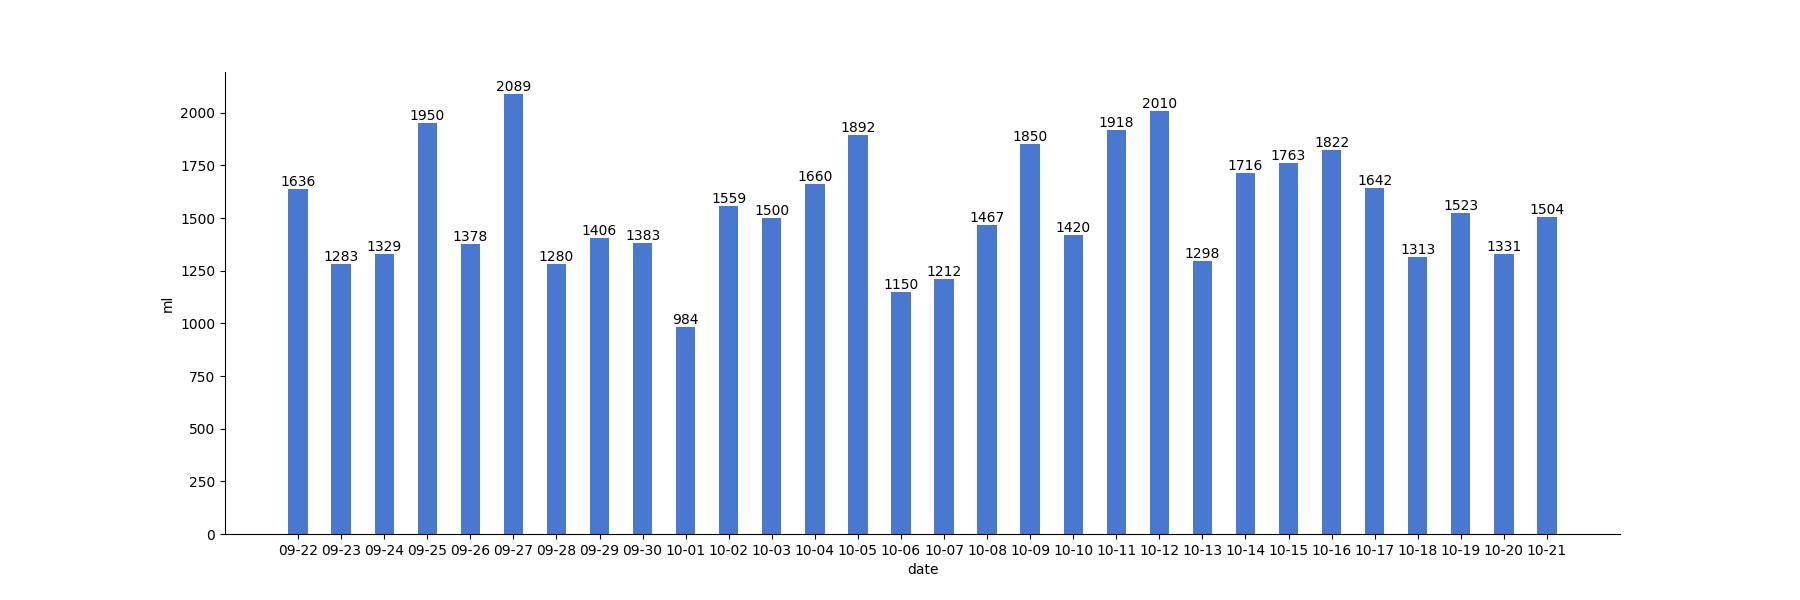
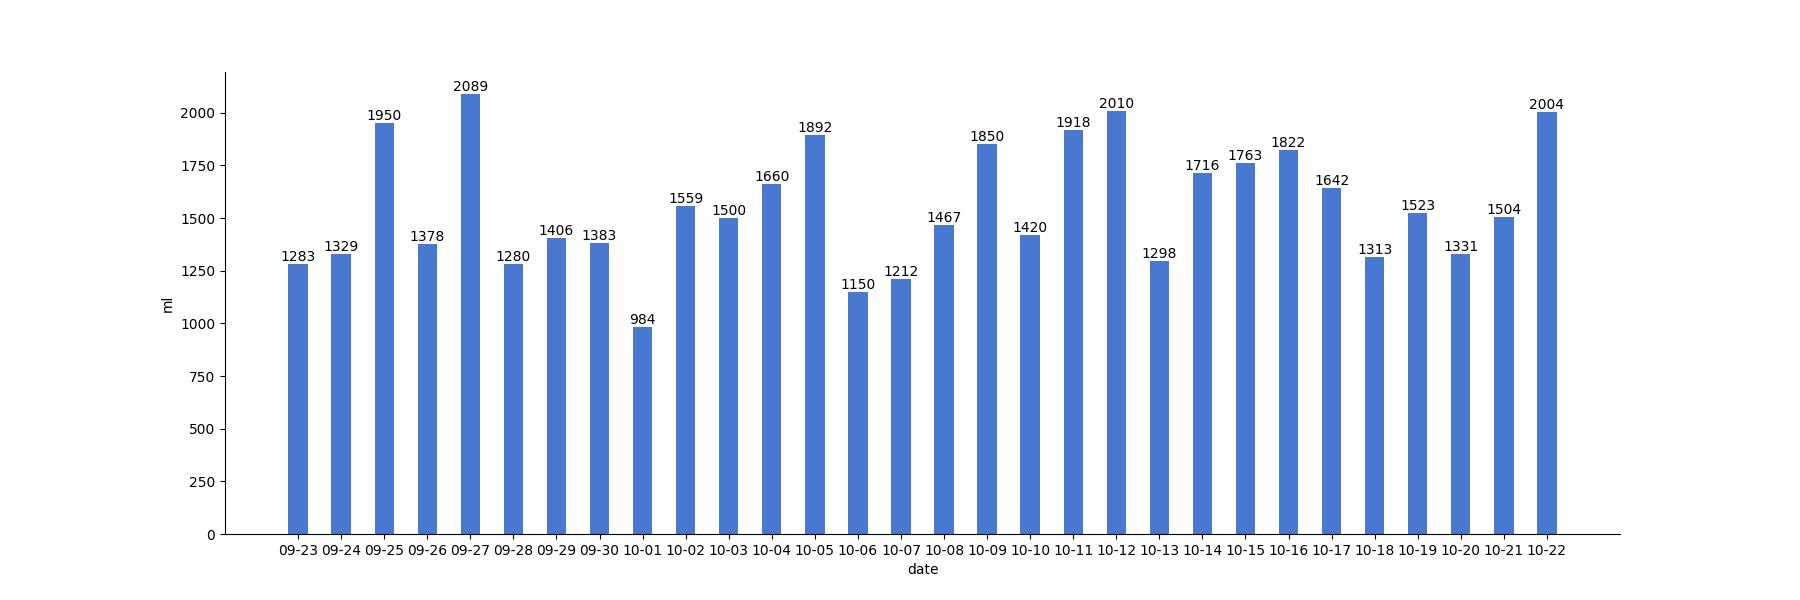
generated readme

diff --git a/README.md b/README.md
@@ -5,12 +5,12 @@
 
 | 今日总饮水量 | 每小时平均饮水量 |
 | :----: | :----: |
-| 2004 | 200 |
+| 175 | 175 |
 </div>
 
-| 日期 | 00:04:58 | 00:24:37 | 07:56:28 | 08:08:13 | 09:26:34 | 11:16:55 | 12:30:58 | 12:43:43 | 12:46:10 | 15:04:18 | 15:14:09 | 17:26:00 | 19:18:29 | 20:40:35 |
-| :----: | :----: | :----: | :----: | :----: | :----: | :----: | :----: | :----: | :----: | :----: | :----: | :----: | :----: | :----: |
-| 2022-10-22 | 117 | 88 | 83 | 145 | 91 | 70 | 200 | 77 | 112 | 88 | 133 | 200 | 400 | 200 |
+| 日期 | 00:03:24 | 00:20:24 |
+| :----: | :----: | :----: |
+| 2022-10-23 | 93 | 82 |
 
 # 近30日饮水数据
 
@@ -19,8 +19,12 @@
 
 | 总饮水量 | 日均饮水量 |
 | :----: | :----: |
-| 46268 | 1542 |
+| 46636 | 1554 |
 </div>
+
+| 日期 | all | 00:04:58 | 00:24:37 | 07:56:28 | 08:08:13 | 09:26:34 | 11:16:55 | 12:30:58 | 12:43:43 | 12:46:10 | 15:04:18 | 15:14:09 | 17:26:00 | 19:18:29 | 20:40:35 |
+| :----: | :----: | :----: | :----: | :----: | :----: | :----: | :----: | :----: | :----: | :----: | :----: | :----: | :----: | :----: | :----: |
+| 2022-10-22 | 2004 | 117 | 88 | 83 | 145 | 91 | 70 | 200 | 77 | 112 | 88 | 133 | 200 | 400 | 200 |
 
 | 日期 | all | 00:48:39 | 07:52:28 | 10:11:13 | 12:22:22 | 15:06:07 | 15:58:18 | 17:12:12 | 19:01:38 | 20:40:25 | 21:40:52 |
 | :----: | :----: | :----: | :----: | :----: | :----: | :----: | :----: | :----: | :----: | :----: | :----: |
@@ -141,8 +145,4 @@
 | 日期 | all | 00:40:39 | 07:58:37 | 09:26:17 | 10:13:06 | 11:38:07 | 12:38:14 | 13:08:08 | 14:39:29 | 15:15:32 | 18:41:34 | 19:46:11 | 20:40:51 | 21:39:43 | 22:11:51 | 23:12:13 |
 | :----: | :----: | :----: | :----: | :----: | :----: | :----: | :----: | :----: | :----: | :----: | :----: | :----: | :----: | :----: | :----: | :----: |
 | 2022-09-22 | 1636 | 38 | 158 | 132 | 123 | 90 | 200 | 83 | 119 | 80 | 149 | 57 | 62 | 200 | 67 | 78 |
-
-| 日期 | all | 00:12:48 | 08:07:58 | 10:18:24 | 11:47:16 | 12:20:12 | 13:08:40 | 15:12:35 | 16:25:50 | 17:17:40 | 17:32:47 | 20:48:36 | 21:13:24 | 23:50:16 |
-| :----: | :----: | :----: | :----: | :----: | :----: | :----: | :----: | :----: | :----: | :----: | :----: | :----: | :----: | :----: |
-| 2022-09-21 | 1584 | 56 | 64 | 369 | 96 | 200 | 72 | 66 | 67 | 200 | 55 | 72 | 200 | 67 |
 
